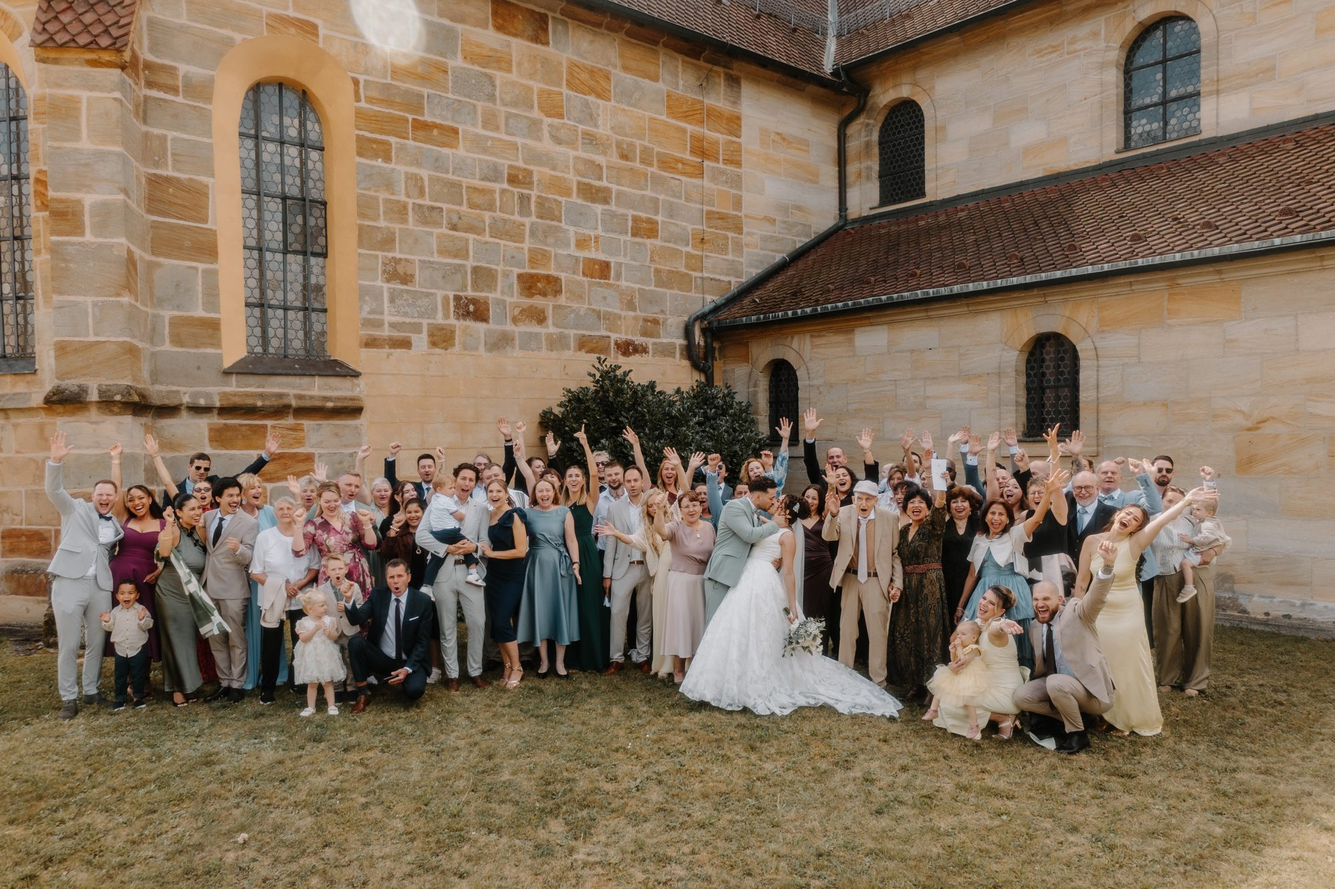
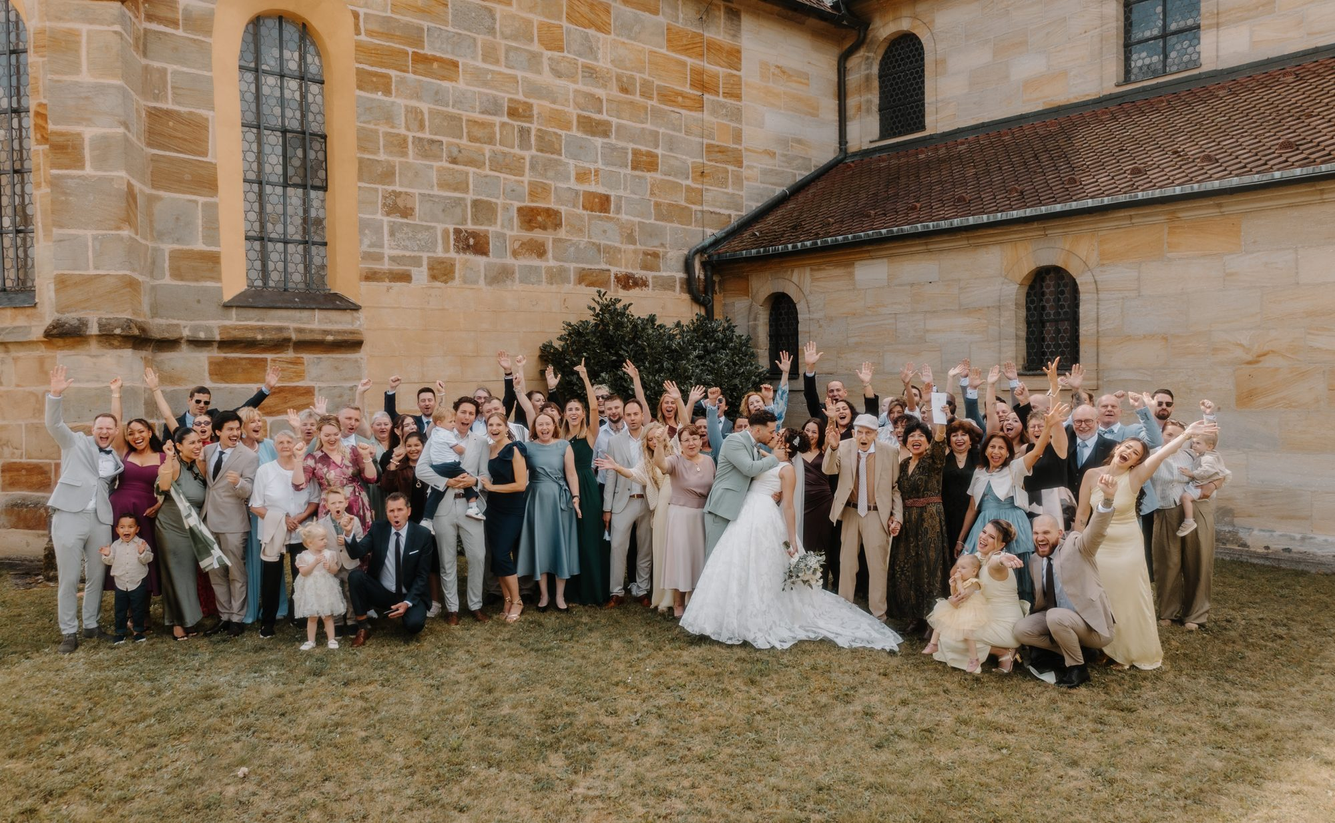
fix(home): zugeschnittenes Gruppenfoto verwenden

diff --git a/src/components/home/home.css b/src/components/home/home.css
@@ -14,7 +14,7 @@
 .wedding-image {
   display: block;
   width: 100%;
-  aspect-ratio: 3 / 2;
+  aspect-ratio: 16 / 10;
   object-fit: cover;
   border-radius: 24px;
 }
